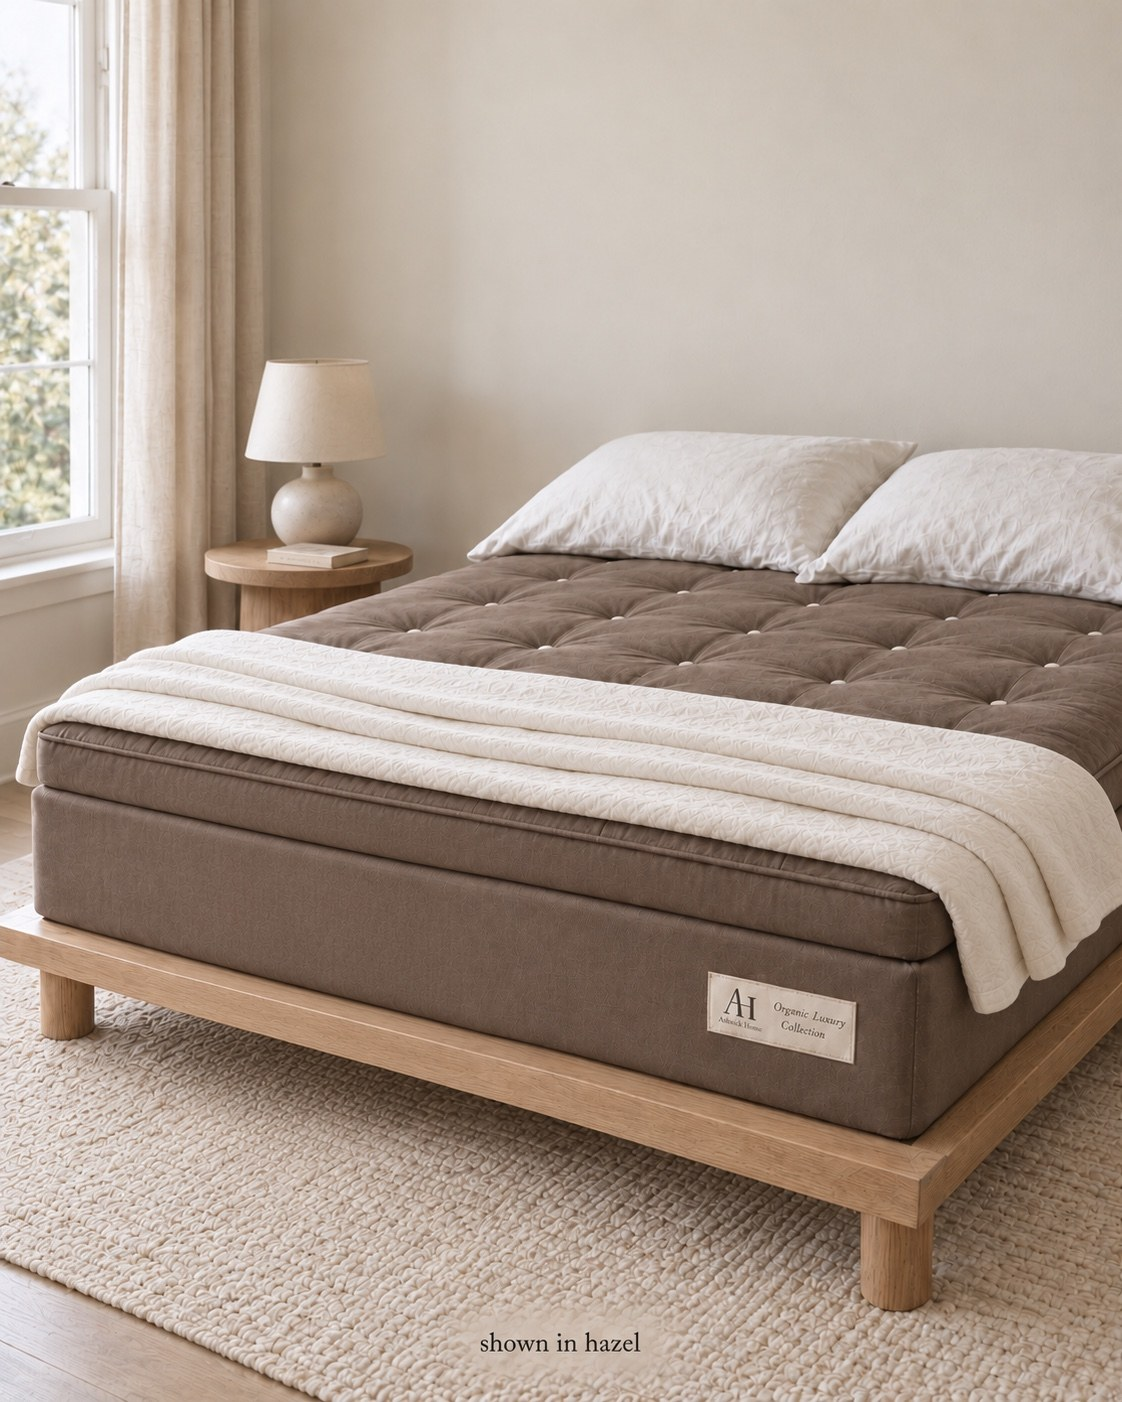
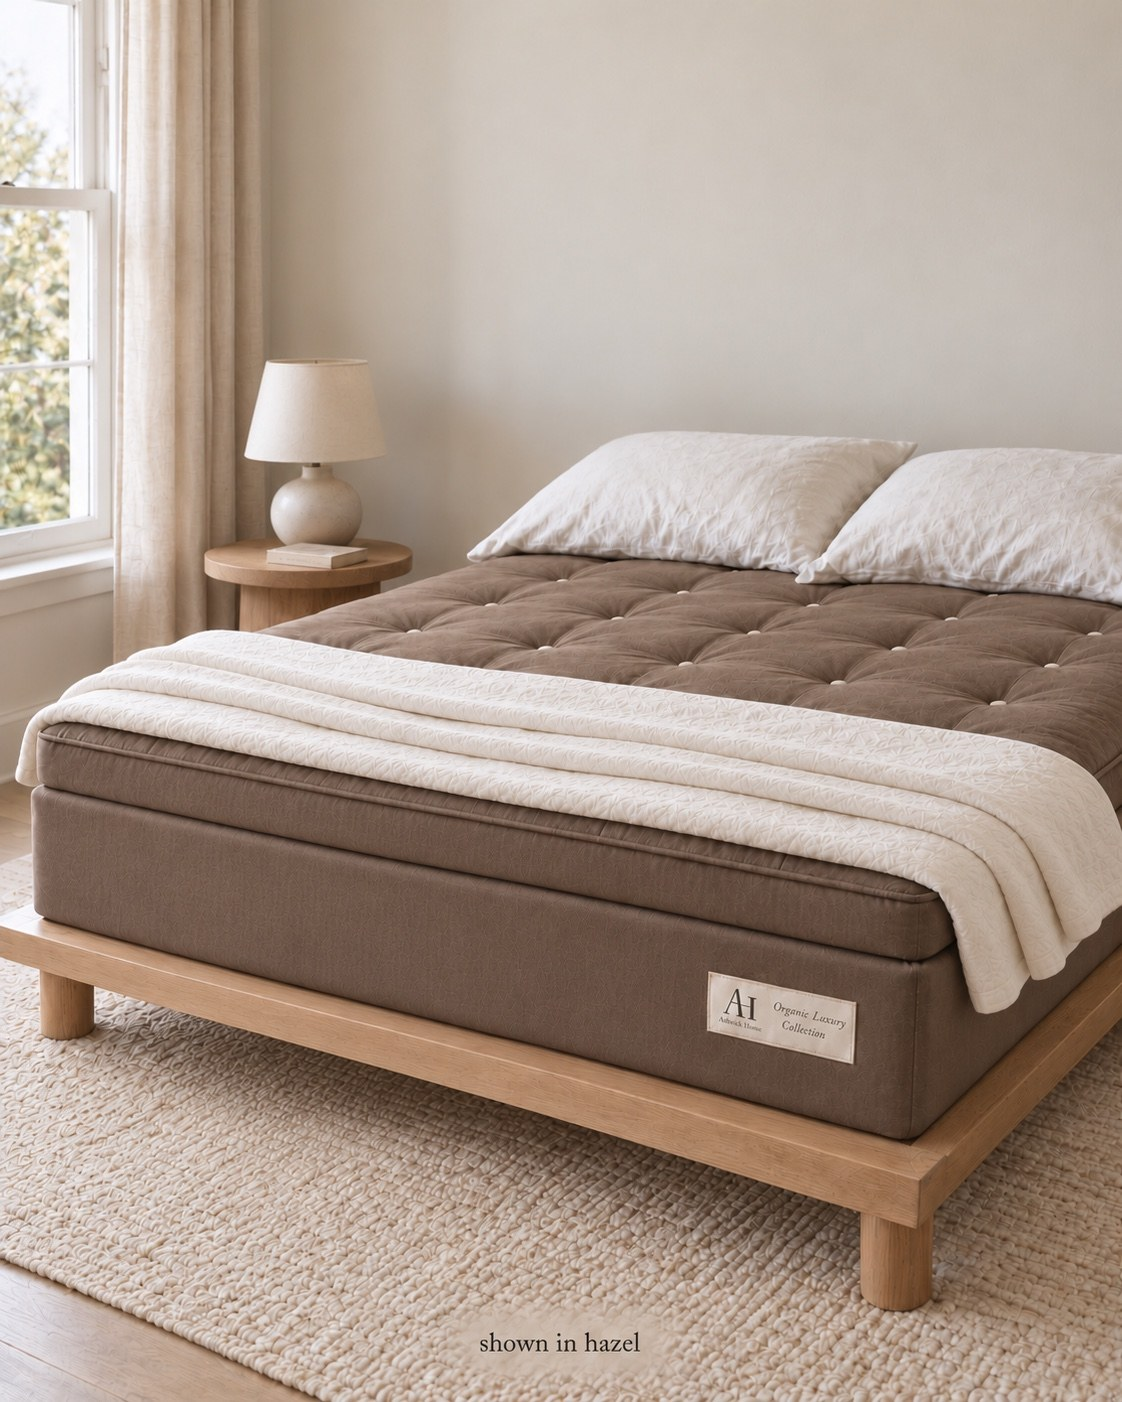
New Sorrel and Fleece room photos; updated Hazel
Claude-Session: https://claude.ai/code/session_01BdupDbY4vAUPMLYs1EoME5

diff --git a/lib/mattress.ts b/lib/mattress.ts
@@ -49,12 +49,12 @@ export const MATTRESS = {
    * change); labels are the current names. File names still use the old names (mocha, safari, dove, khaki, natural).
    */
   colors: [
-    { id: "natural", label: "Fleece", swatch: "mattress-swatch-natural", photos: ["mattress-room-natural", "mattress-studio-natural"], alt: "The Ashbury in Fleece" },
+    { id: "natural", label: "Fleece", swatch: "mattress-swatch-natural", photos: ["mattress-room-fleece", "mattress-studio-natural"], alt: "The Ashbury in Fleece" },
     { id: "dove", label: "Flint", swatch: "mattress-swatch-dove", photos: ["mattress-room-dove", "mattress-studio-dove"], alt: "The Ashbury in Flint" },
     { id: "khaki", label: "Moss", swatch: "mattress-swatch-khaki", photos: ["mattress-room-moss", "mattress-studio-khaki"], alt: "The Ashbury in Moss" },
     // The new Hazel render replaces the old Safari studio shot in the gallery (the old file is kept, unused).
     { id: "safari", label: "Hazel", swatch: "mattress-swatch-hazel", photos: ["mattress-room-hazel", "mattress-studio-hazel", "mattress-safari-room"], alt: "The Ashbury in Hazel" },
-    { id: "mocha", label: "Sorrel", swatch: "mattress-swatch-mocha", photos: ["mattress-mocha-bedroom", "mattress-studio-mocha", "mattress-mocha-room"], alt: "The Ashbury in Sorrel" },
+    { id: "mocha", label: "Sorrel", swatch: "mattress-swatch-mocha", photos: ["mattress-room-sorrel", "mattress-studio-mocha", "mattress-mocha-room"], alt: "The Ashbury in Sorrel" },
   ] satisfies MattressColor[],
   /** Color selected when the page opens (its first photo leads the gallery and the social preview). */
   defaultColor: "mocha",

diff --git a/lib/photos.ts b/lib/photos.ts
@@ -61,6 +61,8 @@ import mattressRoomNatural from "@/assets/photos/mattress-room-natural.jpg";
 import mattressRoomKhaki from "@/assets/photos/mattress-room-khaki.jpg";
 import mattressRoomMoss from "@/assets/photos/mattress-room-moss.jpg";
 import mattressRoomHazel from "@/assets/photos/mattress-room-hazel.jpg";
+import mattressRoomSorrel from "@/assets/photos/mattress-room-sorrel.jpg";
+import mattressRoomFleece from "@/assets/photos/mattress-room-fleece.jpg";
 import materialsOil from "@/assets/photos/materials-oil.jpg";
 import furnitureFamily from "@/assets/photos/furniture-family.jpg";
 import materialsBandFurniture from "@/assets/photos/materials-band-furniture.jpg";
@@ -178,6 +180,8 @@ export const PHOTOS = {
   "mattress-room-khaki": mattressRoomKhaki,
   "mattress-room-moss": mattressRoomMoss,
   "mattress-room-hazel": mattressRoomHazel,
+  "mattress-room-sorrel": mattressRoomSorrel,
+  "mattress-room-fleece": mattressRoomFleece,
   "materials-oil": materialsOil,
   "furniture-family": furnitureFamily,
   "materials-band-furniture": materialsBandFurniture,
